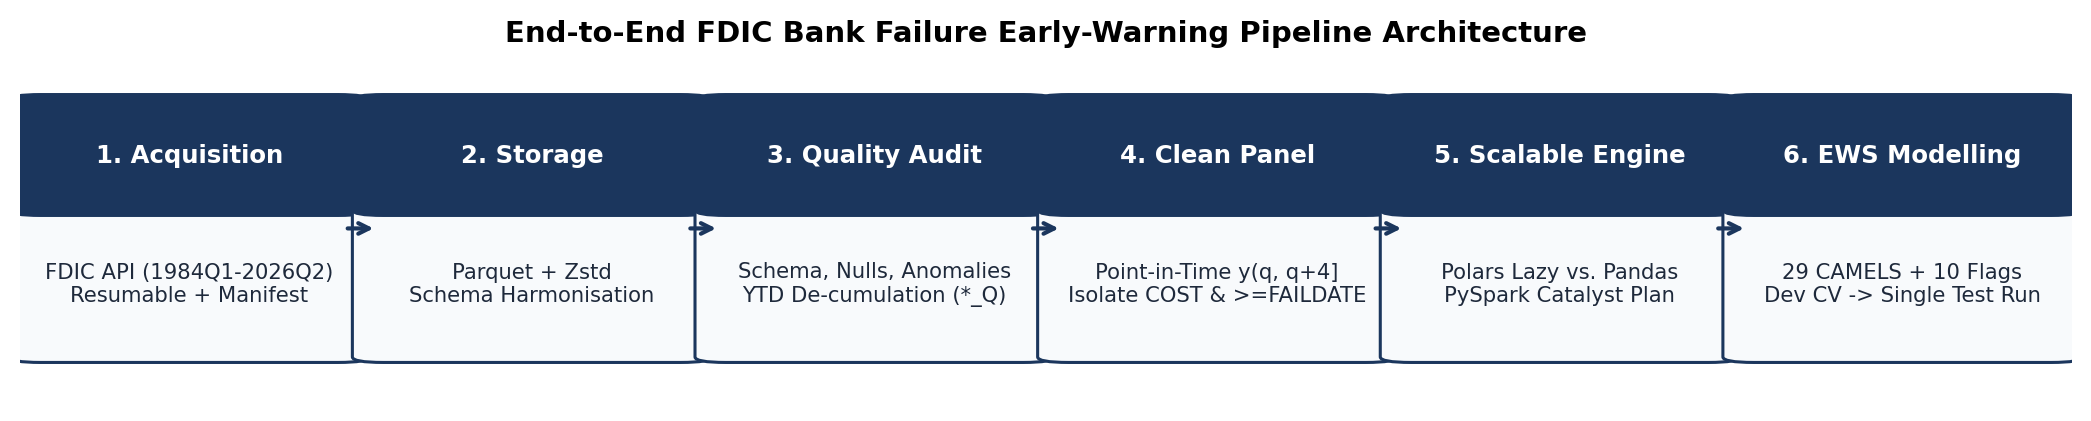
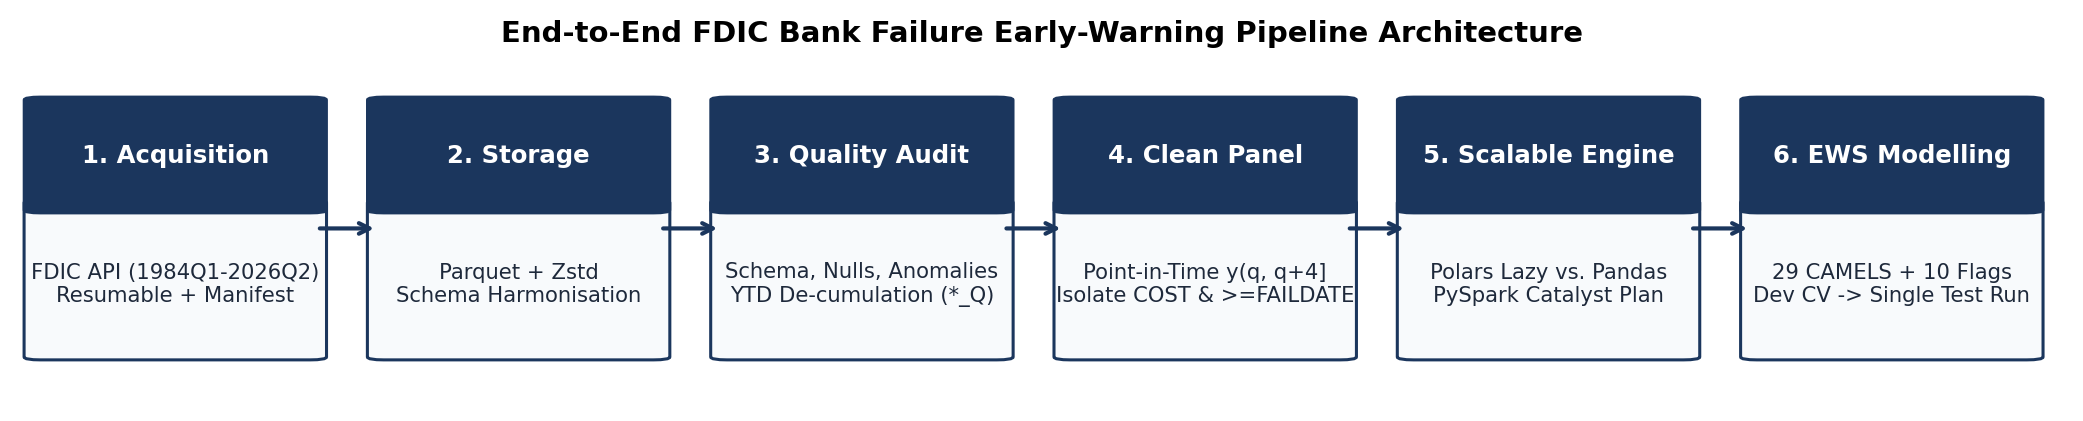
Polish architecture/correlation figures and finalize AI disclosure

Changed region(s): [[0.0, 0.2162, 0.9986, 0.8646], [0.5305, 0.0618, 0.7801, 0.1235], [0.2496, 0.0309, 0.4681, 0.0926]]

diff --git a/src/10_make_figures.py b/src/10_make_figures.py
@@ -88,11 +88,11 @@ steps = [
     ("5. Scalable Engine", "Polars Lazy vs. Pandas\nPySpark Catalyst Plan"),
     ("6. EWS Modelling", "29 CAMELS + 10 Flags\nDev CV -> Single Test Run"),
 ]
-w, h, gap = 0.145, 0.68, 0.022
+w, h, gap = 0.132, 0.66, 0.036
 for idx, (title, body) in enumerate(steps):
     x = 0.01 + idx * (w + gap)
-    hdr = mpatches.FancyBboxPatch((x, 0.52), w, 0.30, boxstyle="round,pad=0.015", fc=C_NAVY, ec=C_NAVY)
-    box = mpatches.FancyBboxPatch((x, 0.12), w, 0.42, boxstyle="round,pad=0.015", fc="#F8FAFC", ec=C_NAVY, lw=1.1)
+    hdr = mpatches.FancyBboxPatch((x, 0.52), w, 0.30, boxstyle="round,pad=0.008", fc=C_NAVY, ec=C_NAVY)
+    box = mpatches.FancyBboxPatch((x, 0.12), w, 0.42, boxstyle="round,pad=0.008", fc="#F8FAFC", ec=C_NAVY, lw=1.1)
     ax.add_patch(box)
     ax.add_patch(hdr)
     ax.text(x + w / 2, 0.67, title, ha="center", va="center", color="white", fontweight="bold", fontsize=8.8)
@@ -198,8 +198,8 @@ if pre_corr and post_corr:
     ax.set_yticklabels(cdf.index)
     ax.set_xlim(-0.34, 0.33)
     ax.set_xlabel("Pearson correlation (r) with failure label y on Dev period (n = 1,295,349)")
-    ax.set_title("Signal Recovery After Training-Only Winsorization (Top 12 CAMELS Features)")
-    ax.legend(loc="lower left", fontsize=8.2, frameon=True, facecolor="white", framealpha=0.92)
+    ax.set_title("Signal Recovery After Training-Only Winsorization (Top 12 CAMELS Features)", pad=26)
+    ax.legend(loc="upper center", bbox_to_anchor=(0.5, 1.13), ncol=2, fontsize=8.2, frameon=True, facecolor="white", edgecolor="#CBD5E1")
     save(fig, "fig5_winsorization_corr.png")
 
 # ---------------------------------------------------------------- Fig 6: Part 5 CV PR-AUC

diff --git a/README.md b/README.md
@@ -104,4 +104,4 @@ Run all commands sequentially from the repository root (`bft65b-bank-failure-ews
 
 ## 6. AI Usage Disclosure
 
-In accordance with course academic integrity guidelines, AI assistants (Anthropic Claude and Google Gemini) were used for code syntax debugging across Polars/PySpark/scikit-learn, cross-checking anti-leakage validation logic, generating report figures from `outputs/` files (`src/10_make_figures.py`), and polishing academic exposition. All API downloads, benchmark executions, numerical verifications against `outputs/`, methodological choices, and final conclusions were executed and verified by the author.
+In accordance with course academic integrity guidelines, AI tools (Anthropic Claude and Google Gemini) were used solely for two auxiliary tasks: (1) cross-checking data consistency and verifying anti-leakage validation checks against `outputs/` logs, and (2) generating the figure-plotting script (`src/10_make_figures.py`, which programmatically rebuilds all report charts from `outputs/`). All data acquisition, pipeline implementation, feature engineering, model training and evaluation, analysis, and report writing were conducted and verified by the author.
